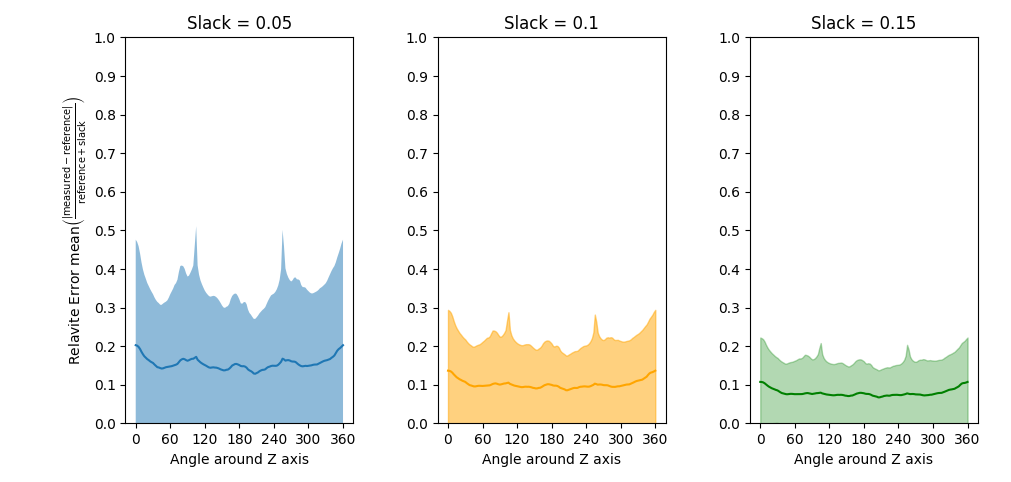
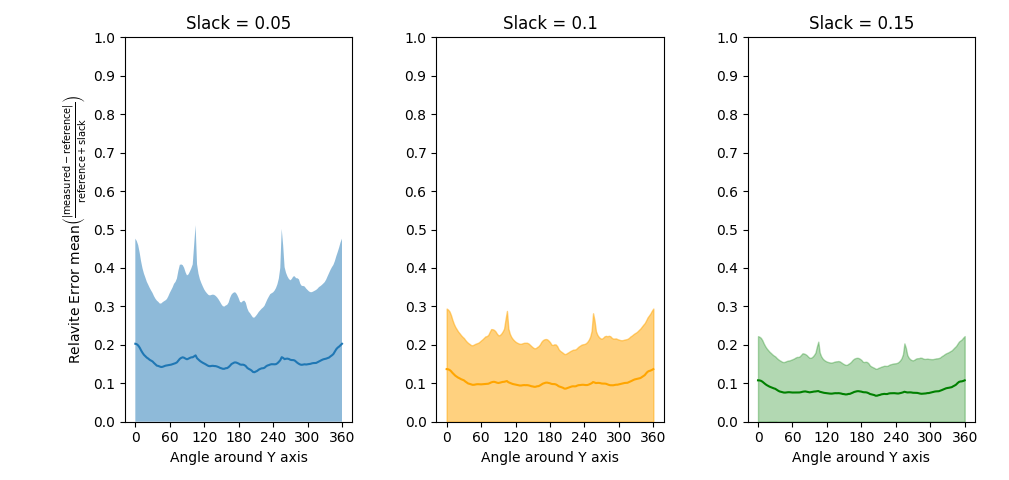
Corrected Y Plot Labels

diff --git a/Raytracer/Experiment_plotter.py b/Raytracer/Experiment_plotter.py
@@ -16,9 +16,9 @@ def plot_exp(filename):
     # print(np.shape(lines))
     fig, axes = plt.subplots(1,3, sharex=True)
     axes[0].set_ylabel(r"Relavite Error $\mathrm{mean}\left(\frac{|\mathrm{measured}  - \mathrm{reference}|}{\mathrm{reference} + \mathrm{slack}}\right)$")
-    axes[0].set_xlabel("Angle around Z axis")
-    axes[1].set_xlabel("Angle around Z axis")
-    axes[2].set_xlabel("Angle around Z axis")
+    axes[0].set_xlabel("Angle around Y axis")
+    axes[1].set_xlabel("Angle around Y axis")
+    axes[2].set_xlabel("Angle around Y axis")
     axes[0].set_title("Slack = 0.05")
     axes[1].set_title("Slack = 0.1")
     axes[2].set_title("Slack = 0.15")
@@ -43,7 +43,7 @@ def plot_exp(filename):
     plt.plot(lines[0], lines[8], label="Ray Marcher Render Time")
     plt.xticks(np.arange(0, 361, 60))
     plt.ylabel("Render Time")
-    plt.xlabel("Angle around Z axis")
+    plt.xlabel("Angle around Y axis")
     plt.legend()
     plt.show()
 
